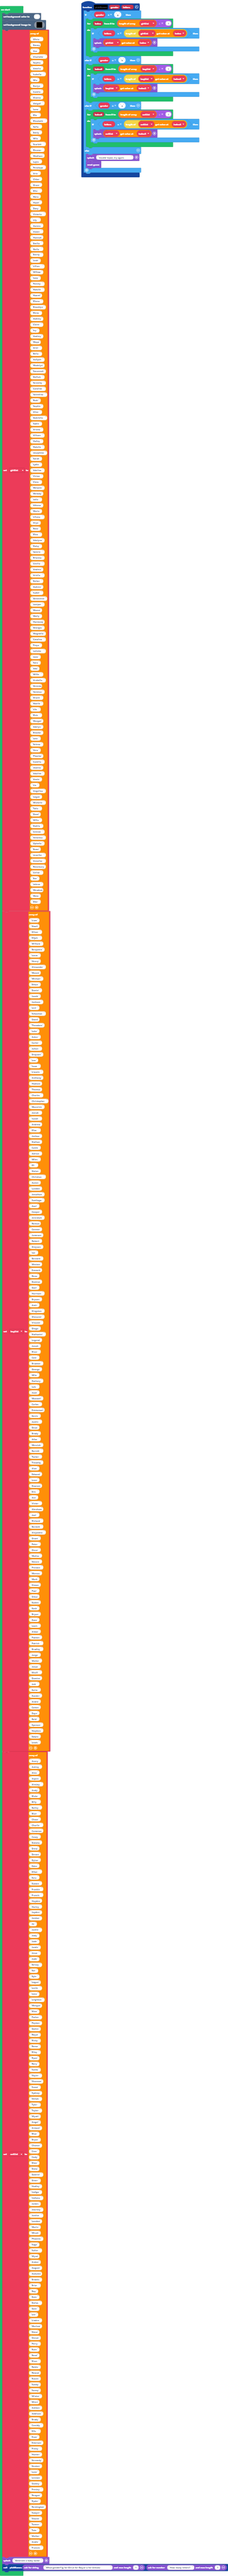
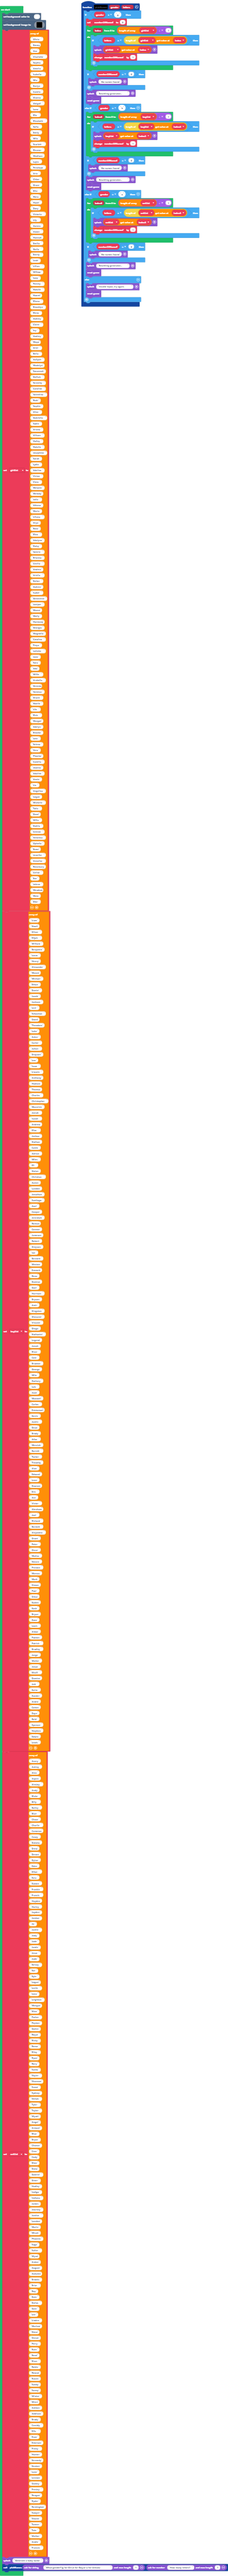
Added splash for no names

Changed region(s): [[0.3367, 0.0, 0.8878, 0.1249]]

diff --git a/main.ts b/main.ts
@@ -1,6 +1,6 @@
 function pickNames (gender: string, letters: number) {
-    numberOfNames = 0
     if (gender == "g") {
+        numberOfNames = 0
         for (let index = 0; index <= girlList.length - 1; index++) {
             if (letters == girlList[index].length) {
                 game.splash(girlList[index])
@@ -8,8 +8,9 @@ function pickNames (gender: string, letters: number) {
             }
         }
         if (numberOfNames == 0) {
-            game.splash("No name found")
+            game.splash("No names found")
         }
+        game.splash("Resetting generator...")
         game.reset()
     } else if (gender == "b") {
         for (let index2 = 0; index2 <= boyList.length - 1; index2++) {
@@ -19,8 +20,9 @@ function pickNames (gender: string, letters: number) {
             }
         }
         if (numberOfNames == 0) {
-            game.splash("No name found")
+            game.splash("No names found")
         }
+        game.splash("Resetting generator...")
         game.reset()
     } else if (gender == "u") {
         for (let index3 = 0; index3 <= uniList.length - 1; index3++) {
@@ -30,8 +32,9 @@ function pickNames (gender: string, letters: number) {
             }
         }
         if (numberOfNames == 0) {
-            game.splash("No name found")
+            game.splash("No names found")
         }
+        game.splash("Resetting generator...")
         game.reset()
     } else {
         game.splash("Invalid input, try again.")
@@ -599,4 +602,4 @@ uniList = [
 "Frances"
 ]
 game.splash("Generate a baby name")
-pickNames(game.askForString("What gender?(g for Girl,b for Boy,or u for Unisex)", 1), game.askForNumber("How many letters in the name?", 1))
+pickNames(game.askForString("What gender?(g for Girl,b for Boy,or u for Unisex)", 1), game.askForNumber("How many letters?", 1))
